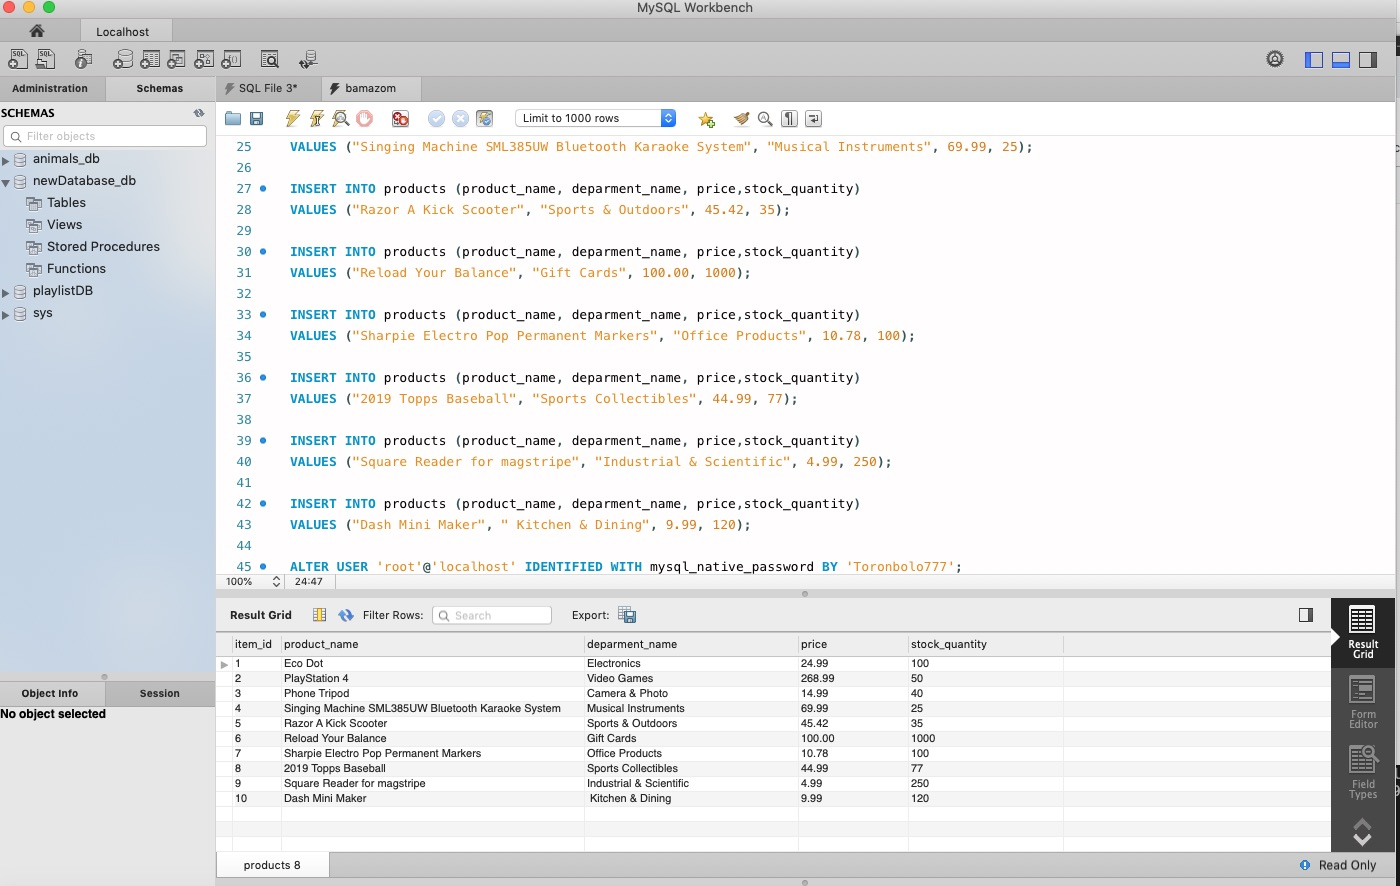
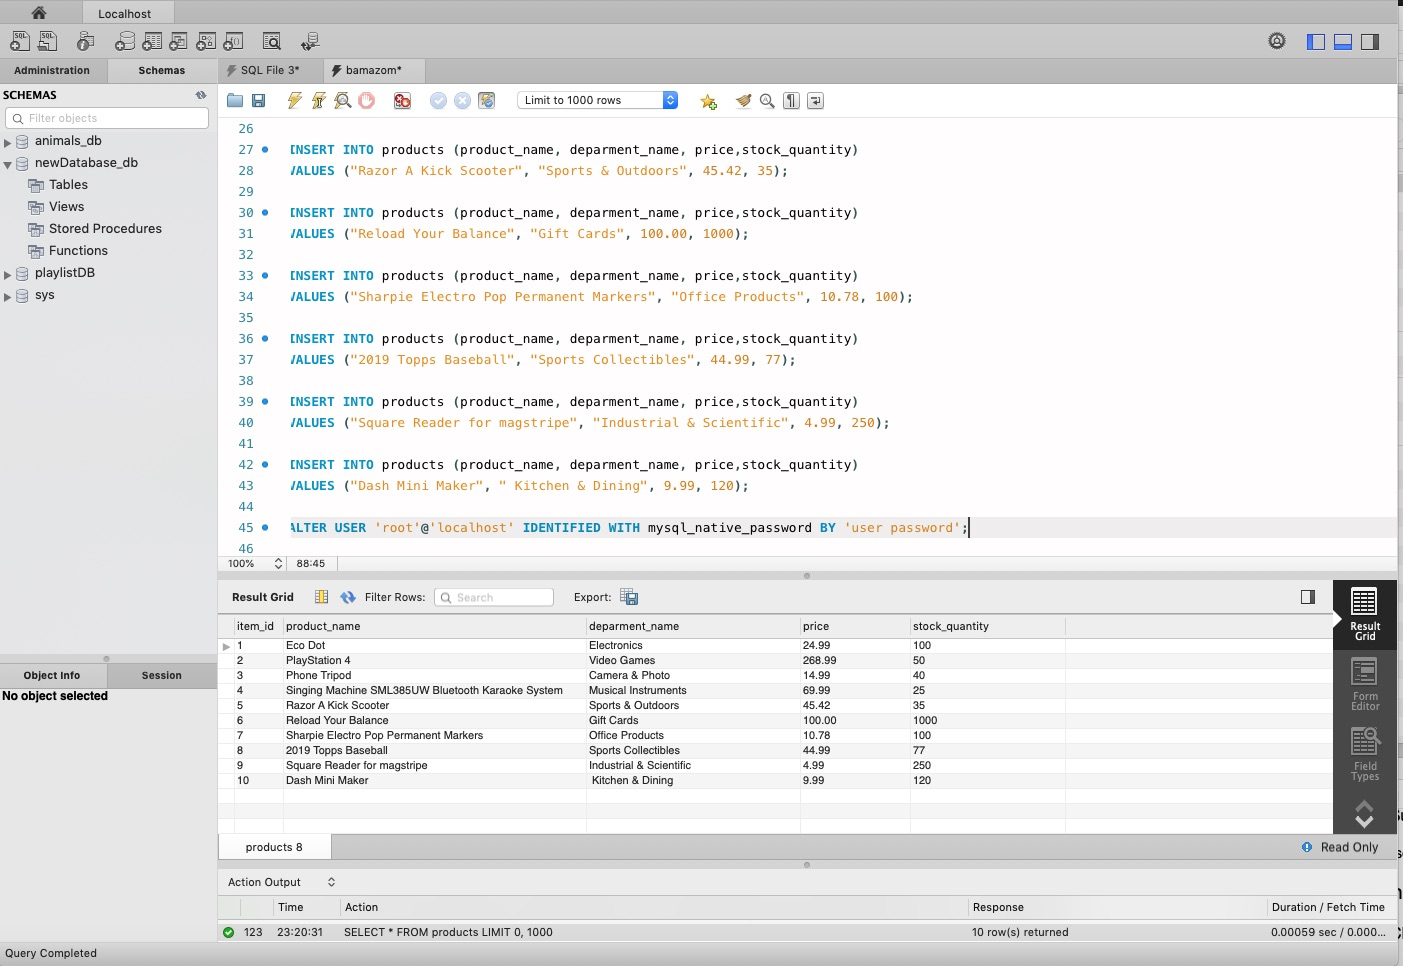
just replace again Figure 1, and also remove the user's password in the .js file

Changed region(s): [[0.0, 0.0, 1.0, 1.0], [0.9829, 0.1524, 1.0, 0.3657], [0.9829, 0.3962, 1.0, 0.4876]]

diff --git a/bamazomCustomer.js b/bamazomCustomer.js
@@ -13,7 +13,7 @@ const connection = mysql.createConnection({
   user: "root",
 
   // my password and name of the sql database
-  password: "Toronbolo777",
+  password: "",
   database: "bamazon"
 });
 
